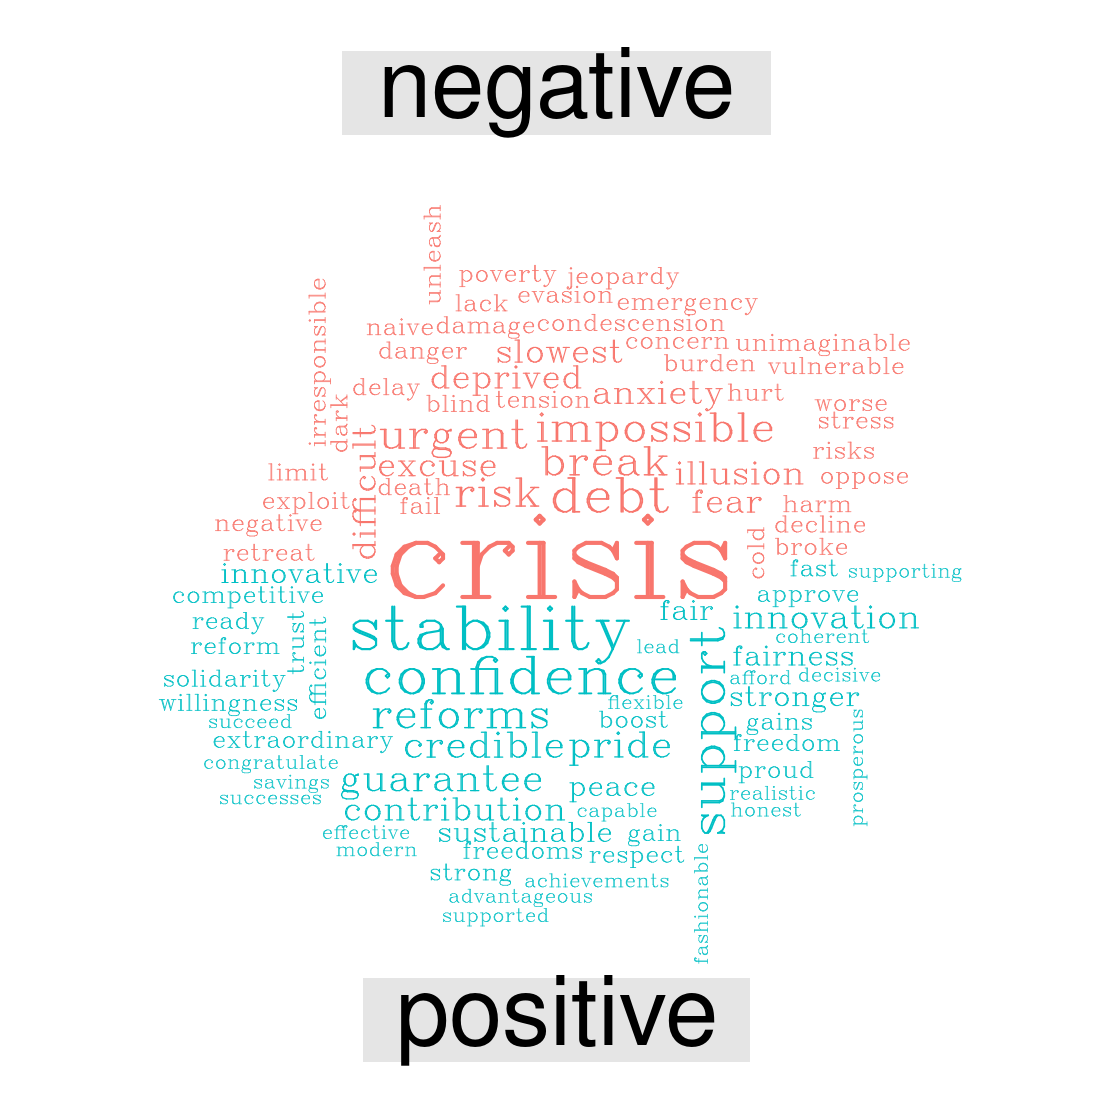
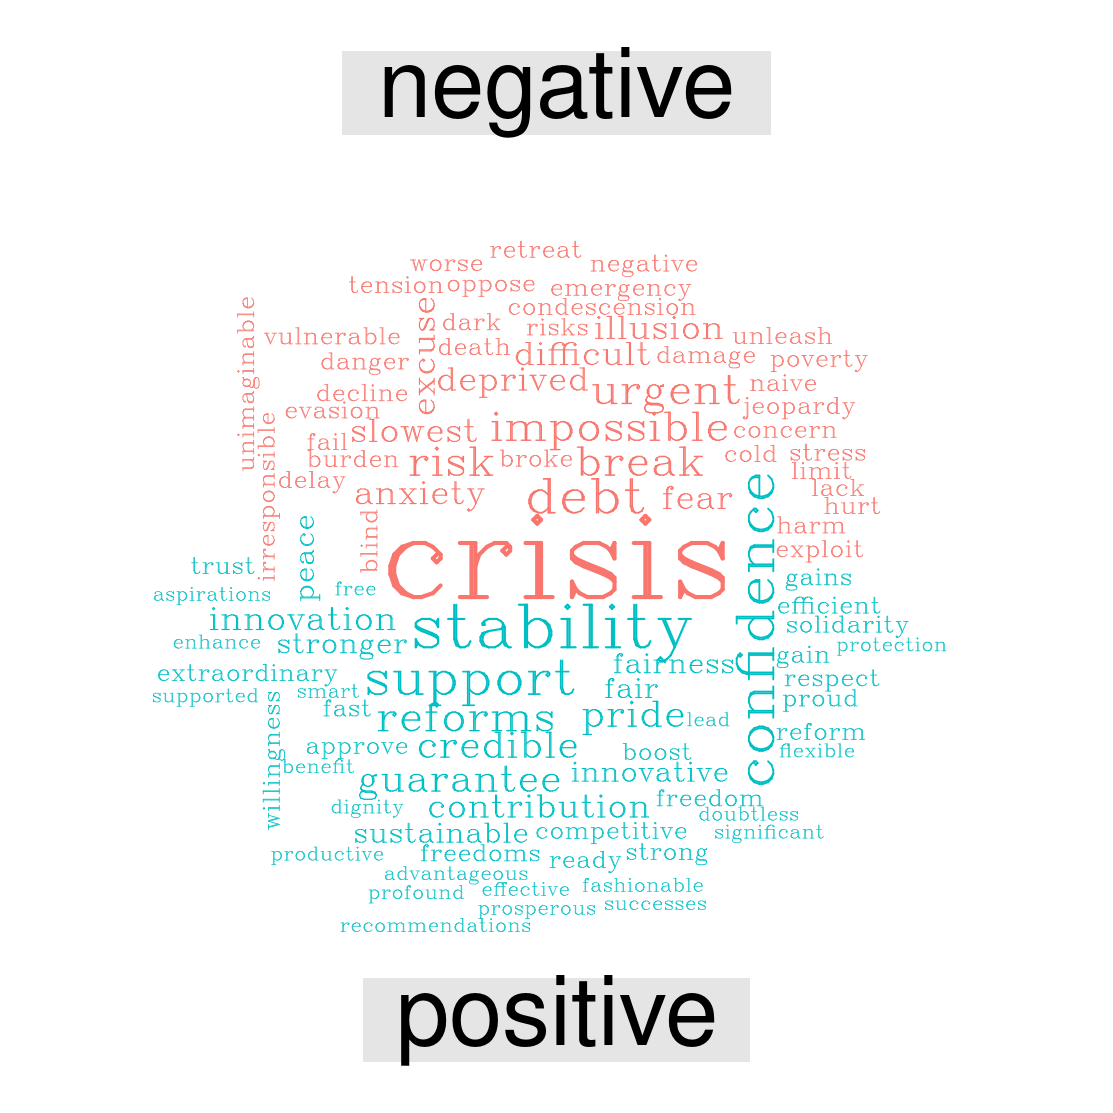
updating, adding also excluding Barroso speeches

Changed region(s): [[0.1222, 0.1833, 0.8553, 0.8553]]

diff --git a/content/post/2018-09-12-exploring-soteu-speeches.html b/content/post/2018-09-12-exploring-soteu-speeches.html
@@ -117,21 +117,22 @@ Self-referential words such as ‘european’, ‘commission’, ‘union’, an
 </tr>
 </tbody>
 </table>
-<p><img src="/post/2018-09-12-exploring-soteu-speeches_files/figure-html/numberOfWordsPerSoteu-1.png" width="672" /></p>
-<p><a href="/post/2018-09-12-exploring-soteu-speeches_files/figure-html/numberOfWordsPerSoteu-1.png"><em>Download this graph</em></a>.</p>
+<p><img src="/post/2018-09-12-exploring-soteu-speeches_files/figure-html/numberOfWordsPerSoteu-1.png" width="672" /><img src="/post/2018-09-12-exploring-soteu-speeches_files/figure-html/numberOfWordsPerSoteu-2.png" width="672" /></p>
 <p><img src="/post/2018-09-12-exploring-soteu-speeches_files/figure-html/mostFrequent_barchart__2018_20-1.png" width="672" /></p>
-<p><a href="../../../../post/2018-09-12-exploring-soteu-speeches_files/figure-html/mostFrequent_barchart__2018_20-1.png"><em>Download this graph</em></a>.</p>
+<div id="juncker-2018-wordcloud" class="section level3">
+<h3>Juncker 2018 wordcloud</h3>
+<p><img src="/post/2018-09-12-exploring-soteu-speeches_files/figure-html/wordcloud_Juncker2018-1.png" width="960" /></p>
+<p>Same as above, with different color palette.</p>
+<p><img src="/post/2018-09-12-exploring-soteu-speeches_files/figure-html/unnamed-chunk-5-1.png" width="960" /></p>
 <p><img src="/post/2018-09-12-exploring-soteu-speeches_files/figure-html/mostFrequent_barchart__2018_totalcolor_20-1.png" width="672" /></p>
 <p><a href="../../../../post/2018-09-12-exploring-soteu-speeches_files/figure-html/mostFrequent_barchart__2018_totalcolor_20-1.png"><em>Download this graph</em></a>.</p>
 <p><img src="/post/2018-09-12-exploring-soteu-speeches_files/figure-html/keywords_circles_mostFrequent-1.png" width="768" /></p>
 <p><a href="../../../../post/2018-09-12-exploring-soteu-speeches_files/figure-html/keywords_circles_mostFrequent-1.png"><em>Download this graph</em></a>.</p>
+<p><img src="/post/2018-09-12-exploring-soteu-speeches_files/figure-html/unnamed-chunk-6-1.png" width="672" /></p>
+</div>
 </div>
 <div id="wordclouds" class="section level2">
 <h2>Wordclouds</h2>
-<div id="juncker-2018-wordcloud" class="section level3">
-<h3>Juncker 2018 wordcloud</h3>
-<p><img src="/post/2018-09-12-exploring-soteu-speeches_files/figure-html/wordcloud_Juncker2018-1.png" width="960" /></p>
-</div>
 </div>
 <div id="what-are-the-most-distinctive-words-of-each-soteu-speech" class="section level2">
 <h2>What are the most distinctive words of each SOTEU speech?</h2>
@@ -146,35 +147,17 @@ Self-referential words such as ‘european’, ‘commission’, ‘union’, an
 <h2>Selected keywords</h2>
 <p><img src="/post/2018-09-12-exploring-soteu-speeches_files/figure-html/keywords_circles-1.png" width="672" /></p>
 <p><a href="../../../../post/2018-09-12-exploring-soteu-speeches_files/figure-html/wordcloud_all_soteu-1.png"><em>Download this graph</em></a>.</p>
+<p>Without Barroso:</p>
+<p><img src="/post/2018-09-12-exploring-soteu-speeches_files/figure-html/unnamed-chunk-7-1.png" width="672" /></p>
 </div>
 <div id="words-with-positivenegative-connotation" class="section level2">
 <h2>Words with positive/negative connotation</h2>
 <p>The following wordclouds highlight the frequency of words which have a positive and negative connotation according to the lexicon by <a href="https://www.cs.uic.edu/~liub/FBS/sentiment-analysis.html">Bing Liu and collaborators</a>.<a href="#fn1" class="footnote-ref" id="fnref1"><sup>1</sup></a></p>
-<p>Looking at these wordlcouds, it quickly appears that ‘crisis’ is the dominant negative words in each of the speeches, but the positive counterpoint is different every year.</p>
+<p>Looking at these wordclouds, it quickly appears that ‘crisis’ is the dominant negative words in each of the speeches, but the positive counterpoint is different every year.</p>
 <div id="all-speeches" class="section level3">
 <h3>All speeches</h3>
 <p><img src="/post/2018-09-12-exploring-soteu-speeches_files/figure-html/wordcloud_allSoteu_sentiment-1.png" width="556.8" /></p>
 <p><a href="../../../../post/2018-09-12-exploring-soteu-speeches_files/figure-html/wordcloud_allSoteu_sentiment-1.png"><em>Download this graph</em></a>.</p>
-</div>
-<div id="barroso-2010" class="section level3">
-<h3>Barroso 2010</h3>
-<p><img src="/post/2018-09-12-exploring-soteu-speeches_files/figure-html/wordcloud_Barroso2010_sentiment-1.png" width="556.8" /></p>
-<p><a href="../../../../post/2018-09-12-exploring-soteu-speeches_files/figure-html/wordcloud_Barroso2010_sentiment-1.png"><em>Download this graph</em></a>.</p>
-</div>
-<div id="barroso-2011" class="section level3">
-<h3>Barroso 2011</h3>
-<p><img src="/post/2018-09-12-exploring-soteu-speeches_files/figure-html/wordcloud_Barroso2011_sentiment-1.png" width="556.8" /></p>
-<p><a href="../../../../post/2018-09-12-exploring-soteu-speeches_files/figure-html/wordcloud_Barroso2011_sentiment-1.png"><em>Download this graph</em></a>.</p>
-</div>
-<div id="barroso-2012" class="section level3">
-<h3>Barroso 2012</h3>
-<p><img src="/post/2018-09-12-exploring-soteu-speeches_files/figure-html/wordcloud_Barroso2012_sentiment-1.png" width="556.8" /></p>
-<p><a href="../../../../post/2018-09-12-exploring-soteu-speeches_files/figure-html/static/img/wordcloud_Barroso2012_sentiment-1.png"><em>Download this graph</em></a>.</p>
-</div>
-<div id="barroso-2013" class="section level3">
-<h3>Barroso 2013</h3>
-<p><img src="/post/2018-09-12-exploring-soteu-speeches_files/figure-html/unnamed-chunk-5-1.png" width="556.8" /></p>
-<p><a href="../../../../post/2018-09-12-exploring-soteu-speeches_files/figure-html/static/img/wordcloud_Barroso2013_sentiment-1.png"><em>Download this graph</em></a>.</p>
 </div>
 <div id="juncker-2015" class="section level3">
 <h3>Juncker 2015</h3>
